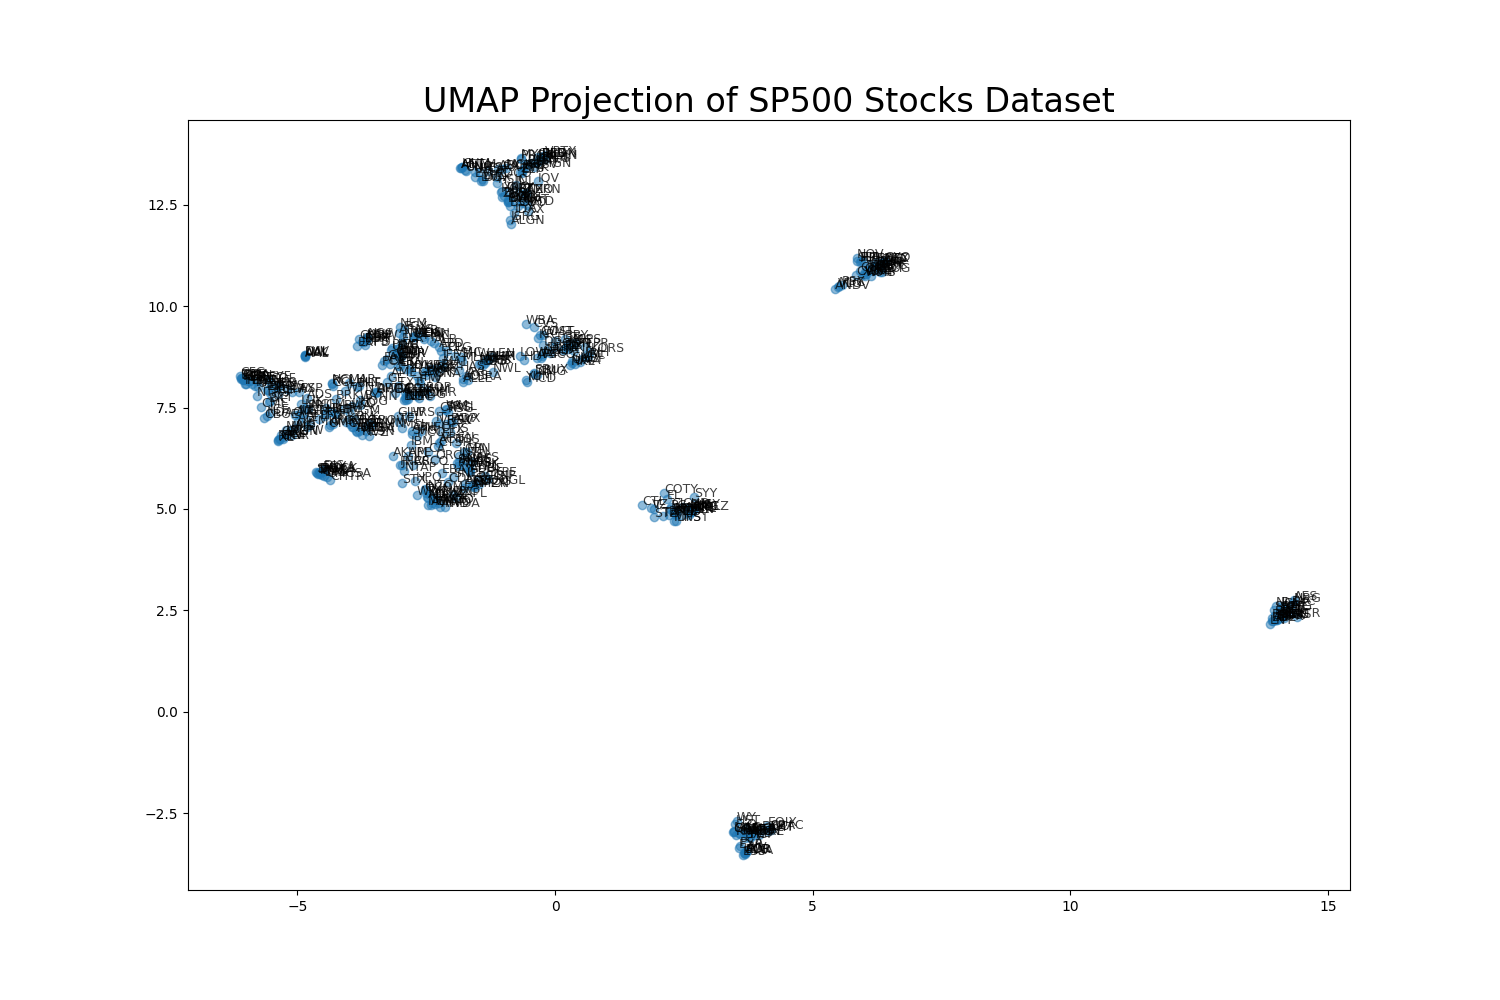
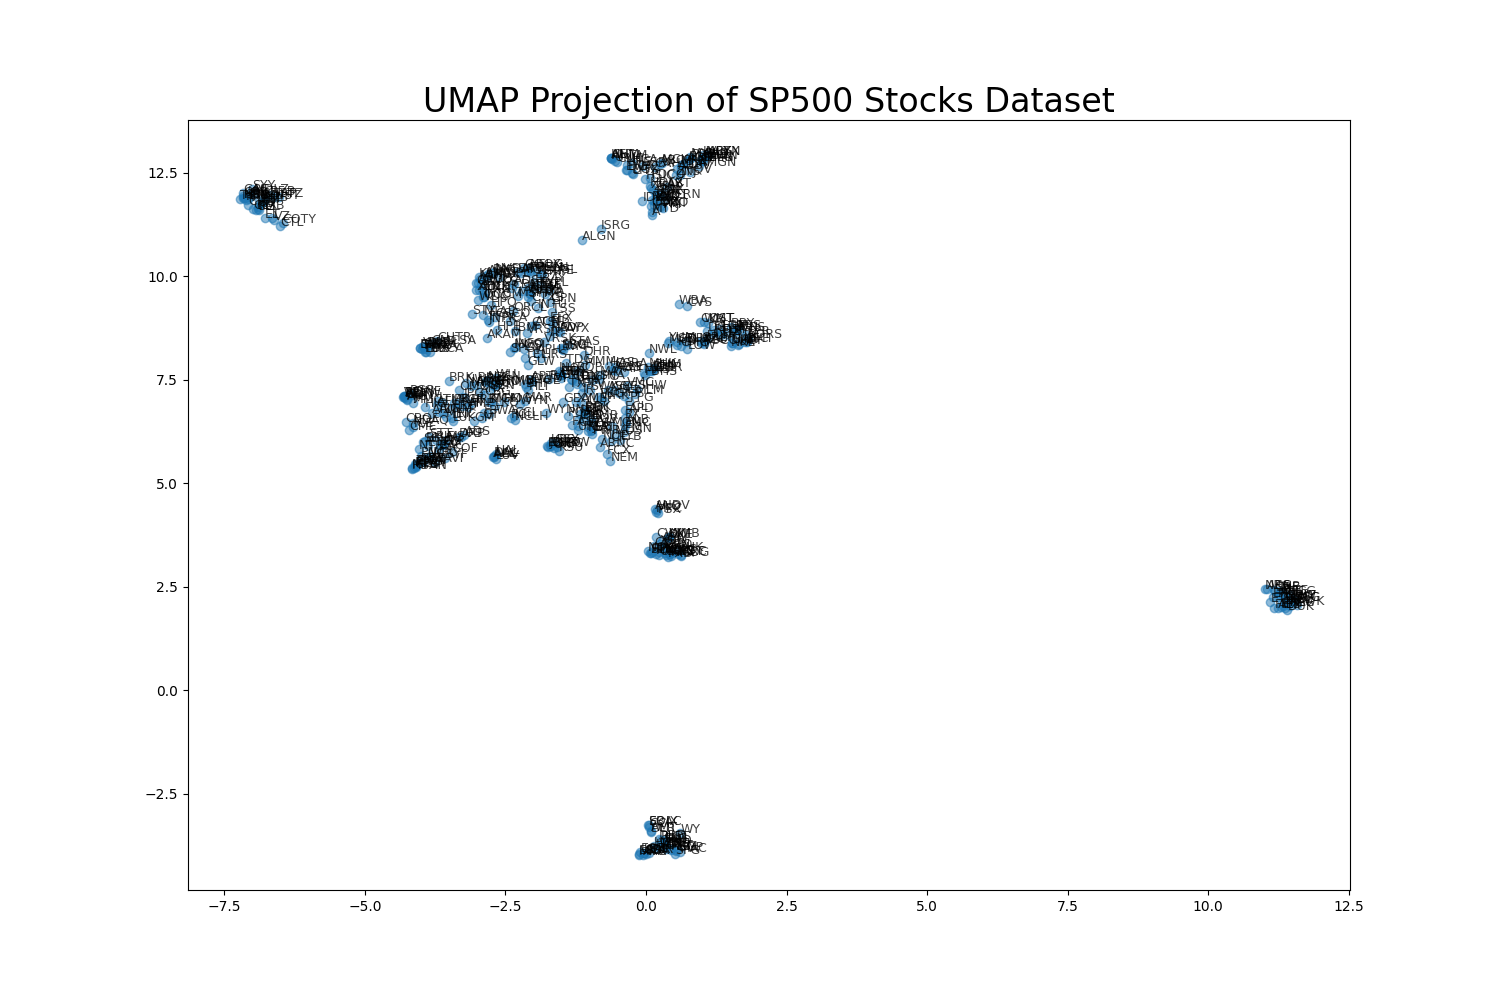
[CC] Cleaning directories

diff --git a/statistics/run_tsne.py b/statistics/run_tsne.py
@@ -1,14 +1,12 @@
 import numpy as np
 import matplotlib.pyplot as plt
 import pandas as pd
-import umap
-from sklearn.model_selection import train_test_split
 from sklearn.preprocessing import normalize
-from sklearn.preprocessing import StandardScaler
+from sklearn.manifold import TSNE
 import sys
 import argparse
-def runModel():
 
+def runModel():
     stocks = pd.read_csv(args.data_set, index_col = 0)
 
     stocks['stock_change'] = stocks['close'] - stocks['open'] # Create new column of difference between close and open values
@@ -17,35 +15,40 @@ def runModel():
     stocks = stocks.pivot(index='Name', columns='date') # Restructure dataframe
 
     stocks = stocks.fillna(0) #pandas version of replacing NaN values to 0
+    #np.nan_to_num(stocks) # numpy version of replacing NaN values to 0
+
+    #print(stocks.head(5)) #test stocks dataframe by printing first 5 rows
 
     # create two arrays of values and index (companies)
     movements = stocks.values
     companies = stocks.index
-    
+
     # sklearn's normalize function to convert values into the same scale
     normalized_movements = normalize(movements)
 
-    # UMAP application
-    reducer = umap.UMAP()
-    embedding = reducer.fit_transform(normalized_movements)
+    # start an instance of t-SNE, learning rate should be adjusted depending on dataset (50-200)
+    model = TSNE(learning_rate = 50)
+
+    # apply t-SNE model to normalised array of stock prices
+    tsne_features = model.fit_transform(normalized_movements)
 
     # create two more arrays of resulting features to go into x and y coordinates of scatter plot
-    xs = embedding[:,0]
-    ys = embedding[:,1]
+    xs = tsne_features[:,0]
+    ys = tsne_features[:,1]
 
-    #scatter plot
+    # create scatter plot
     fig, ax = plt.subplots(figsize = [15, 10])
-    plt.scatter(xs, ys, alpha=0.5)
+    plt.scatter(xs, ys, alpha = 0.5)
 
     for x, y, company in zip(xs, ys, companies):
         plt.annotate(company, (x, y), fontsize=9, alpha=0.75)
     plt.tight_layout
-    plt.title('UMAP Projection of SP500 Stocks Dataset', fontsize=24)
-    plt.savefig(args.output)
+    plt.title('t-SNE Projection of SP500 Stocks Dataset', fontsize=24)
+    plt.savefig(args.output) #temporary fix, this saves output as a png file
 
 def help_statement():
     print(" ")
-    print("Sample usage (from root): python umap/run.py data/SP500_stock.csv output/umap_model.png")
+    print("Sample usage (from root): python statistics/run_tsne.py data/SP500_stock.csv output/tsne_model.png")
 
 if __name__ == '__main__':
 

diff --git a/statistics/run_umap.py b/statistics/run_umap.py
@@ -1,12 +1,14 @@
 import numpy as np
 import matplotlib.pyplot as plt
 import pandas as pd
+import umap
+from sklearn.model_selection import train_test_split
 from sklearn.preprocessing import normalize
-from sklearn.manifold import TSNE
+from sklearn.preprocessing import StandardScaler
 import sys
 import argparse
-
 def runModel():
+
     stocks = pd.read_csv(args.data_set, index_col = 0)
 
     stocks['stock_change'] = stocks['close'] - stocks['open'] # Create new column of difference between close and open values
@@ -15,40 +17,35 @@ def runModel():
     stocks = stocks.pivot(index='Name', columns='date') # Restructure dataframe
 
     stocks = stocks.fillna(0) #pandas version of replacing NaN values to 0
-    #np.nan_to_num(stocks) # numpy version of replacing NaN values to 0
-
-    #print(stocks.head(5)) #test stocks dataframe by printing first 5 rows
 
     # create two arrays of values and index (companies)
     movements = stocks.values
     companies = stocks.index
-
+    
     # sklearn's normalize function to convert values into the same scale
     normalized_movements = normalize(movements)
 
-    # start an instance of t-SNE, learning rate should be adjusted depending on dataset (50-200)
-    model = TSNE(learning_rate = 50)
-
-    # apply t-SNE model to normalised array of stock prices
-    tsne_features = model.fit_transform(normalized_movements)
+    # UMAP application
+    reducer = umap.UMAP()
+    embedding = reducer.fit_transform(normalized_movements)
 
     # create two more arrays of resulting features to go into x and y coordinates of scatter plot
-    xs = tsne_features[:,0]
-    ys = tsne_features[:,1]
+    xs = embedding[:,0]
+    ys = embedding[:,1]
 
-    # create scatter plot
+    #scatter plot
     fig, ax = plt.subplots(figsize = [15, 10])
-    plt.scatter(xs, ys, alpha = 0.5)
+    plt.scatter(xs, ys, alpha=0.5)
 
     for x, y, company in zip(xs, ys, companies):
         plt.annotate(company, (x, y), fontsize=9, alpha=0.75)
     plt.tight_layout
-    plt.title('t-SNE Projection of SP500 Stocks Dataset', fontsize=24)
-    plt.savefig(args.output) #temporary fix, this saves output as a png file
+    plt.title('UMAP Projection of SP500 Stocks Dataset', fontsize=24)
+    plt.savefig(args.output)
 
 def help_statement():
     print(" ")
-    print("Sample usage (from root): python tsne/run.py data/SP500_stock.csv output/tsne_model.png")
+    print("Sample usage (from root): python statistics/run_umap.py data/SP500_stock.csv output/umap_model.png")
 
 if __name__ == '__main__':
 

diff --git a/README.md b/README.md
@@ -15,7 +15,7 @@ pip install argparse
 Source article: https://medium.com/analytics-vidhya/machine-learning-for-the-stock-market-use-python-to-find-companies-that-behave-similarly-81eceee04f2c
 
 **Sample Usage (from root directory)**  
--> python tsne/run.py data/SP500_stock.csv output/tsne_model.png
+-> python statistics/run_tsne.py data/SP500_stock.csv output/tsne_model.png
 
 **Sample Result**  
 ![image](https://github.com/filicasc/professionalstudioB/blob/main/output/tsne_model.png?raw=true)
@@ -24,7 +24,7 @@ Source article: https://medium.com/analytics-vidhya/machine-learning-for-the-sto
 UMAP documentation: https://umap-learn.readthedocs.io/en/latest/index.html
 
 **Sample Usage (from root directory)**  
--> python umap/run.py data/SP500_stock.csv output/umap_model.png
+-> python statistics/run_umap.py data/SP500_stock.csv output/umap_model.png
 
 **Sample Result**
 ![image](https://github.com/filicasc/professionalstudioB/blob/main/output/umap_model.png?raw=true)
